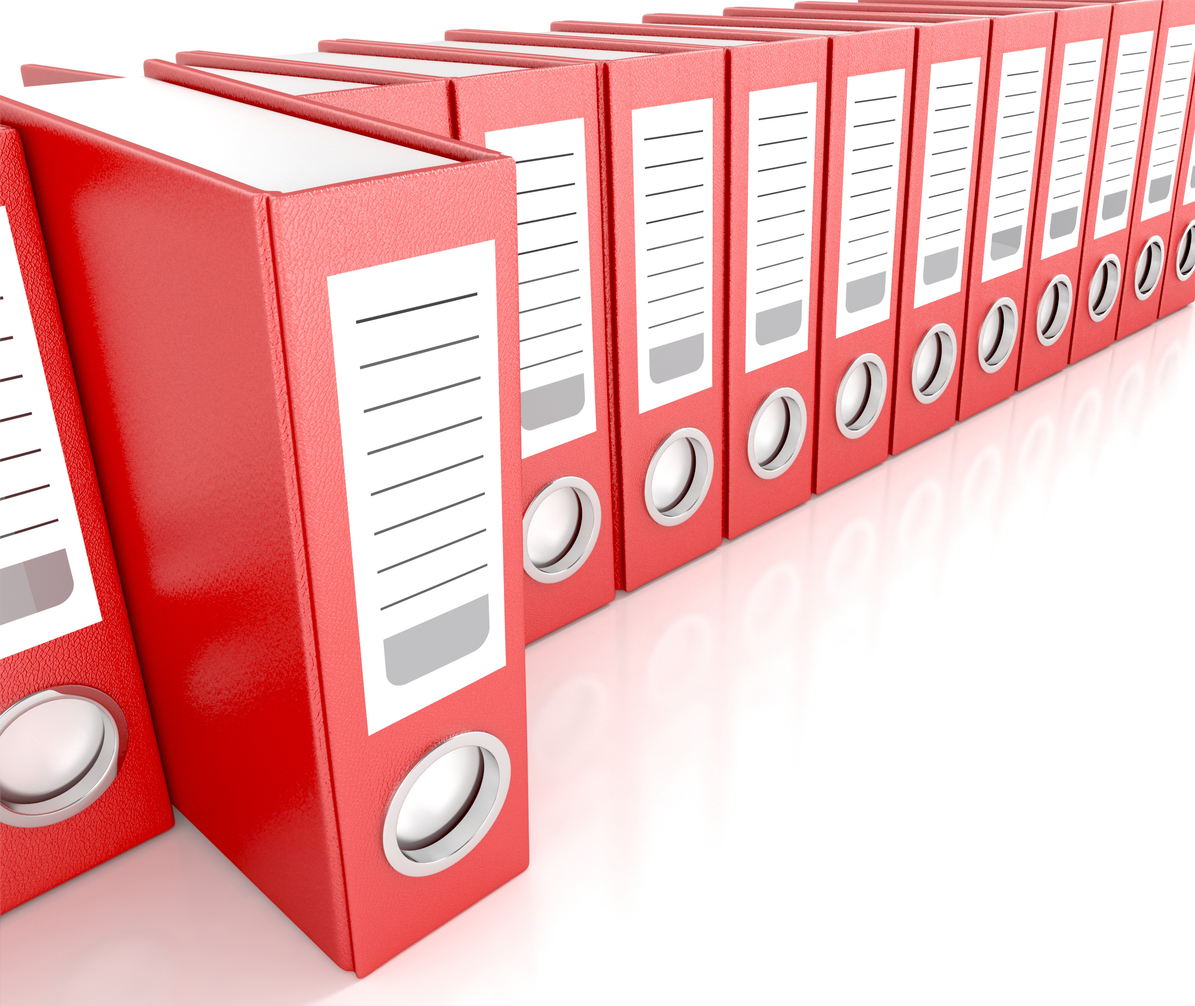
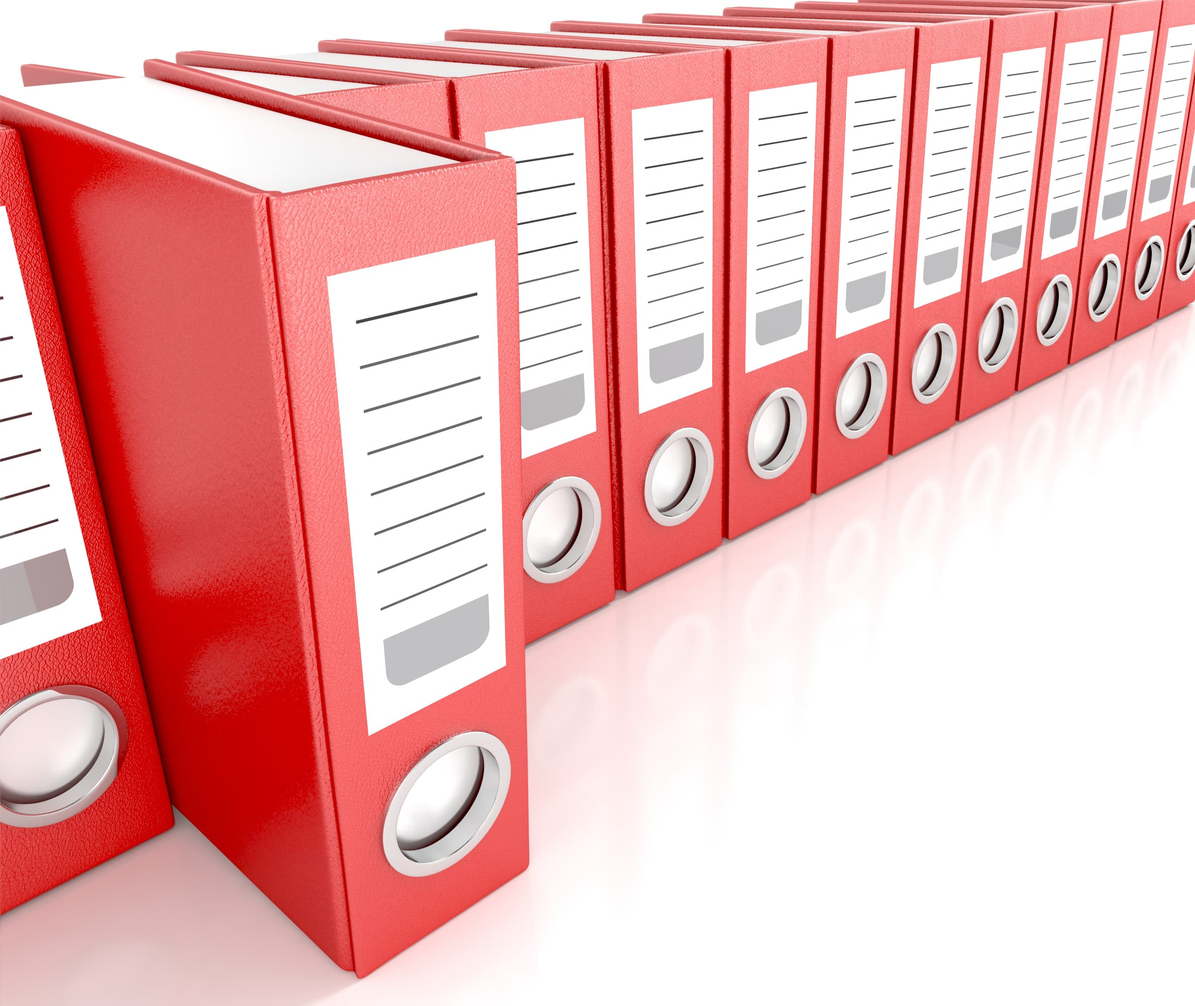
optimised images

diff --git a/src/APPages/Start.jsx b/src/APPages/Start.jsx
@@ -6,7 +6,8 @@ import { ThemeProvider } from '@emotion/react';
 import {motion} from 'framer-motion'
 import redBG from '../APAssets/redBG.mp4';
 import { useNavigate } from 'react-router-dom';
-import {theme} from '../Themes'
+import {theme} from '../Themes';
+import LOGO from '../APAssets/LOGO.jpg';
 
 
 export default function Start() {
@@ -37,7 +38,7 @@ return (
       <div>
         <video className="BGvid" src={redBG} width="100%"  autoPlay loop muted />
       </div>    
-      <motion.img exit={{opacity: 1, duration:1}} className="APLogo" src="https://i2.lensdump.com/i/tp3vIb.png" alt="tp3vIb.png" width="100%"/>
+      <motion.img exit={{opacity: 1, duration:1}} className="APLogo" src={LOGO} alt="tp3vIb.png" width="100%"/>
         <motion.img exit={{opacity:0,duration:1}} className="StartLogo" src="https://i1.lensdump.com/i/tp3eUT.png" alt="tp3eUT.png"/>
         
       <motion.div className="btnEmail hideScroll">

diff --git a/src/APPages/Contact.jsx b/src/APPages/Contact.jsx
@@ -6,6 +6,7 @@ import Button from '@mui/material/Button';
 import Card from '@mui/material/Card';
 import CardContent from '@mui/material/CardContent';
 import Typography from '@mui/material/Typography';
+import LOGO from '../APAssets/LOGO.jpg';
 
 const transition = { duration: 1.4, ease:[0.6, 0.01, -0.05, 0.9]};
 
@@ -38,7 +39,7 @@ export default function About() {
         initial={{x:0, width:"100%", y: "-15%" }}
         style={{"position": "absolute"}}
         className="TransLogo"
-        src="https://i2.lensdump.com/i/tp3vIb.png"
+        src={LOGO}
         alt="tp3vIb.png" border="0"/>
       <motion.div variants={REnter} exit={RExit} initial={"hidden"} animate={"unhidden"} transition={{staggerChildren:0.6}} className="App"> 
         <Typography gutterBottom variant="h3" align="center">

diff --git a/src/APPages/Home.jsx b/src/APPages/Home.jsx
@@ -1,9 +1,11 @@
 import React from 'react';
 import {motion} from 'framer-motion';
+import ProgressiveImage from 'react-progressive-image';
 import FileDrawer from '../APAssets/FileDrawer.jpg';
 import HandShaker from '../APAssets/HandShaker.jpg';
 import Typer from '../APAssets/Typer.jpg';
 import HandPlant from '../APAssets/HandPlant.jpg';
+import LOGO from '../APAssets/LOGO.jpg';
 
 export default function Home() {
 
@@ -44,7 +46,7 @@ export default function Home() {
     initial={{ width:"100%", y: "-15%" }}
     style={{}}
     className="TransLogo"
-    src="https://i2.lensdump.com/i/tp3vIb.png"
+    src={LOGO}
     alt="tp3vIb.png" border="0"/>
 
     <motion.div exit={exit} className="hideScroll flexer Txt">

diff --git a/src/APPages/About.jsx b/src/APPages/About.jsx
@@ -11,6 +11,7 @@ import AccountBoxRoundedIcon from '@mui/icons-material/AccountBoxRounded';
 import CarouselComp from '../APLayout/Carousel';
 import '../carousel.css';
 //Img
+import LOGO from '../APAssets/LOGO.jpg';
 import SquareLogo from '../APAssets/SquareLogo.jpg';
 import RedFiles from '../APAssets/RedFiles.jpg'
 import FWBN from '../APAssets/FWBN.jpg';
@@ -93,7 +94,7 @@ export default function About() {
             initial={{ width:"100%", y: "-15%" }}
             style={{"position": "absolute"}}
             className="TransLogo"
-            src="https://i2.lensdump.com/i/tp3vIb.png"
+            src={LOGO}
             alt="tp3vIb.png" border="0"/>
           <motion.div className="hideScroll" >
 

diff --git a/src/APLayout/Carousel.js b/src/APLayout/Carousel.js
@@ -20,7 +20,7 @@ return(
 
   <motion.div class="carousel_container">
     <motion.div animate={{x:[0,-50,-100,-200,-300,-400,-500,-600,-700,-800,-900,-1000,-1100,-1200,-1300,-1400,-1500,-1600,-1700,-1750]}}
-    transition={{repeat:Infinity, repeatType:"reverse", duration:10, ease:[1,1,1,1], type:"spring"}} class="carousel__wrapper">
+    transition={{repeat:Infinity, repeatType:"reverse", duration:15, ease:[1,1,1,1], type:"spring"}} class="carousel__wrapper">
     {imgs.map((imgs) => (
         <div class="carousel__slide">
             <img class="carousel__image" alt={imgs} src={imgs}/>
